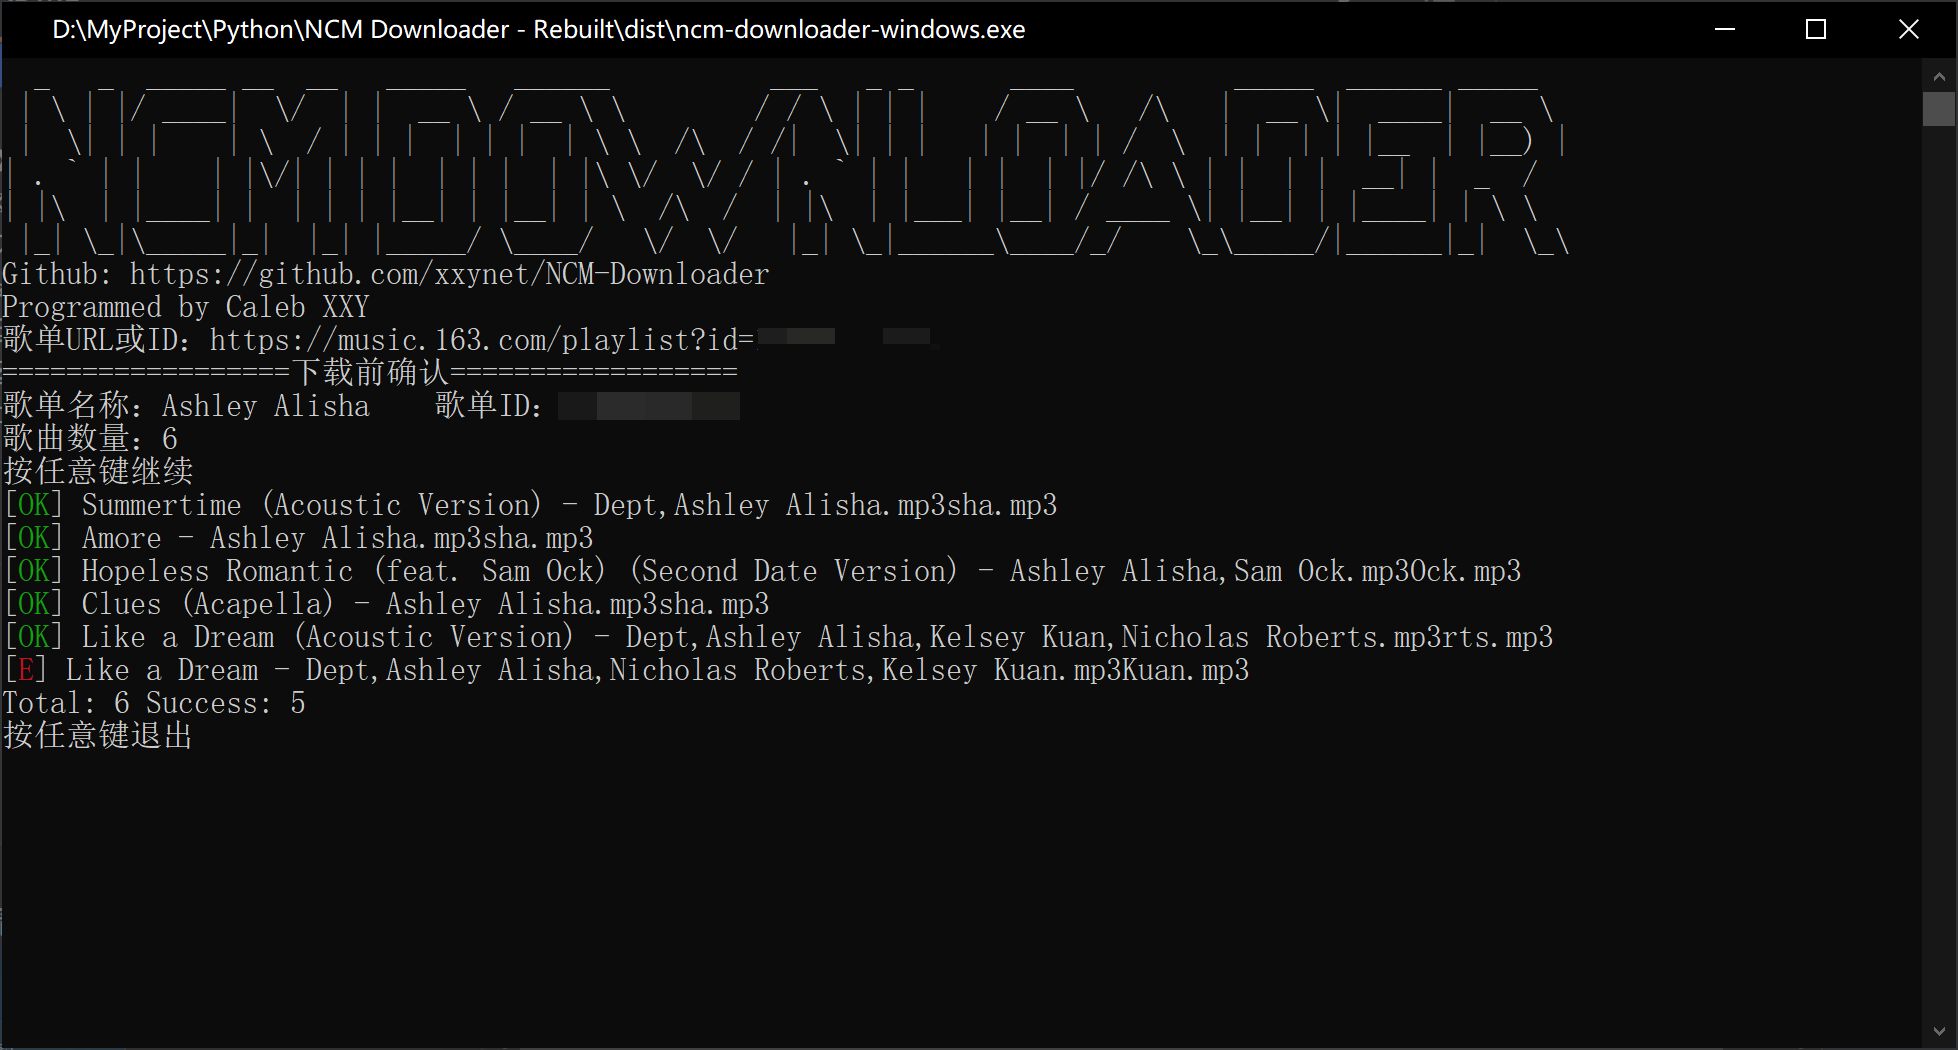
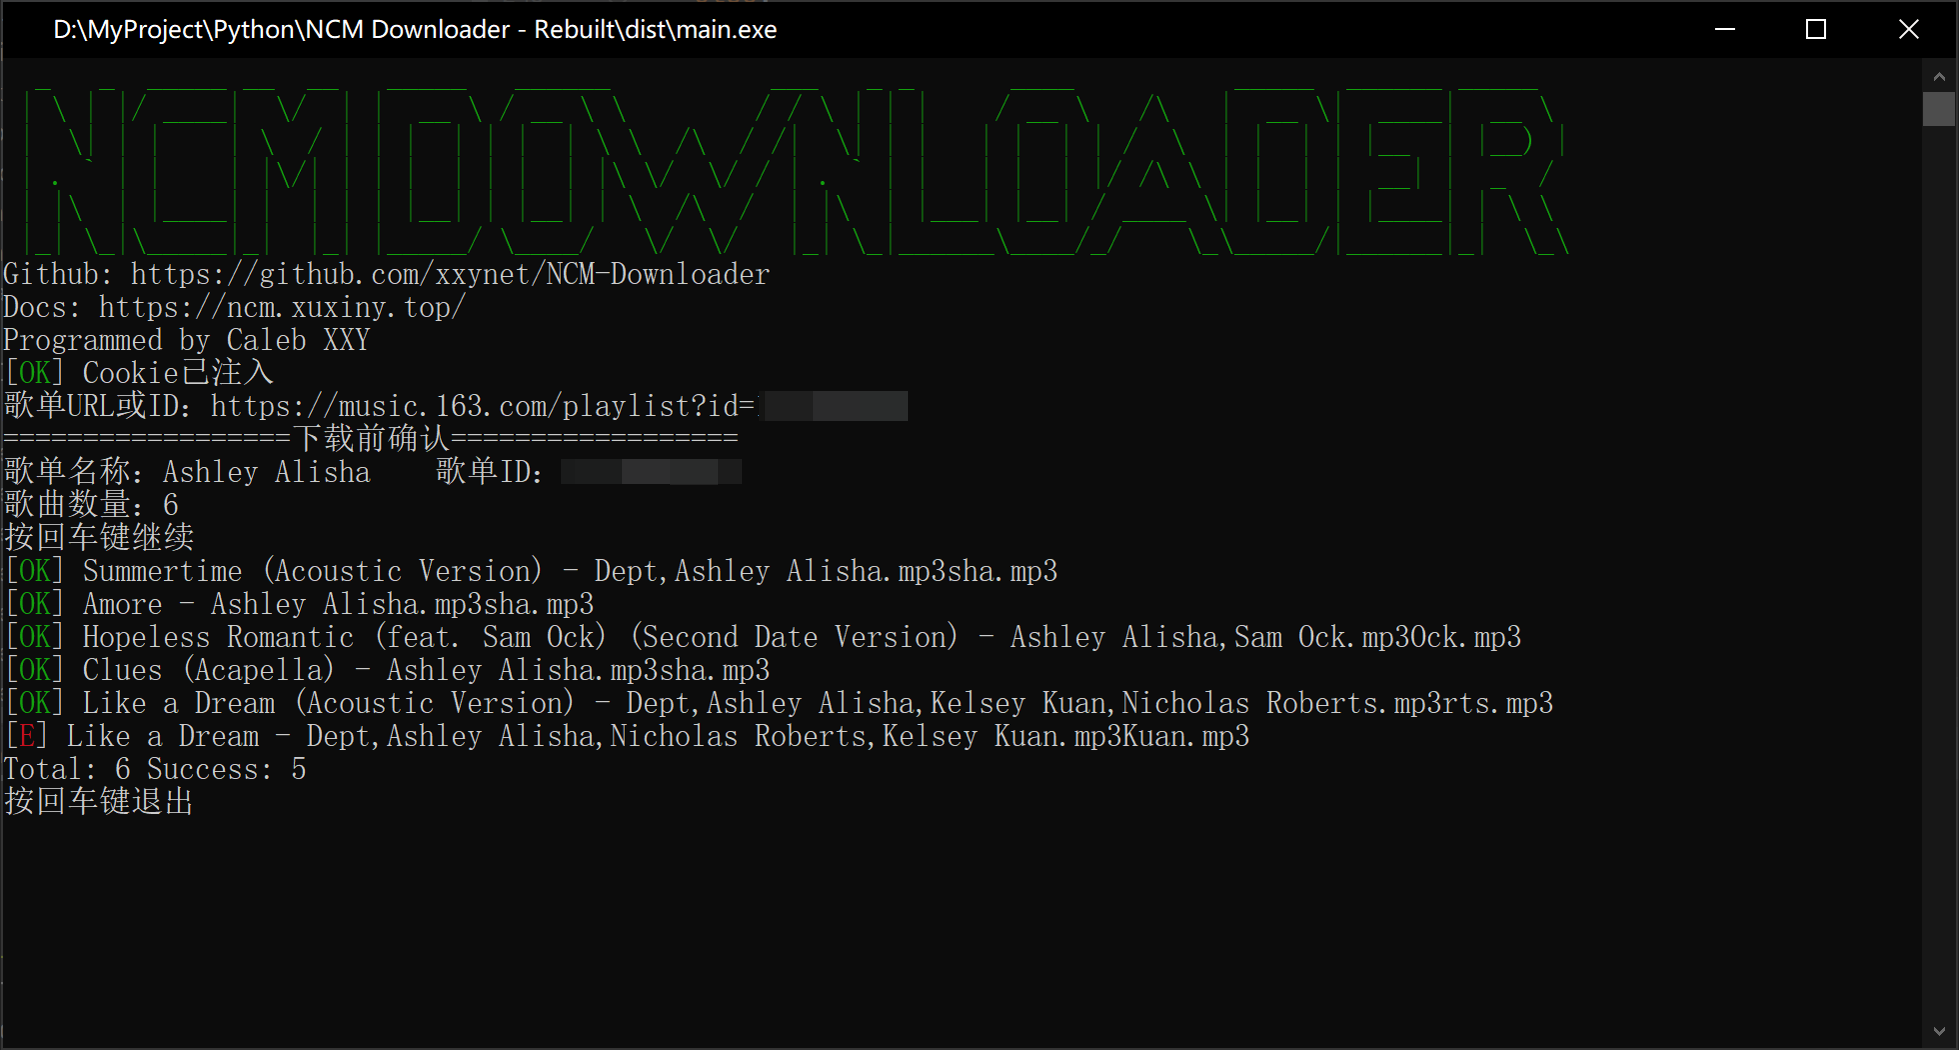
Add files via upload

diff --git a/main.py b/main.py
@@ -28,13 +28,14 @@ lrc = 0
 '''
 
 init() # colorma
-print("  _   _  _____ __  __   _____   ______          ___   _ _      ____          _____  ______ _____  ")
+print(Fore.GREEN + "  _   _  _____ __  __   _____   ______          ___   _ _      ____          _____  ______ _____  ")
 print(" | \ | |/ ____|  \/  | |  __ \ / __ \ \        / / \ | | |    / __ \   /\   |  __ \|  ____|  __ \ ")
 print(" |  \| | |    | \  / | | |  | | |  | \ \  /\  / /|  \| | |   | |  | | /  \  | |  | | |__  | |__) |")
-print("| . ` | |    | |\/| | | |  | | |  | |\ \/  \/ / | . ` | |   | |  | |/ /\ \ | |  | |  __| |  _  / ")
-print("| |\  | |____| |  | | | |__| | |__| | \  /\  /  | |\  | |___| |__| / ____ \| |__| | |____| | \ \ ")
-print(" |_| \_|\_____|_|  |_| |_____/ \____/   \/  \/   |_| \_|______\____/_/    \_\_____/|______|_|  \_\\")
+print(" | . ` | |    | |\/| | | |  | | |  | |\ \/  \/ / | . ` | |   | |  | |/ /\ \ | |  | |  __| |  _  / ")
+print(" | |\  | |____| |  | | | |__| | |__| | \  /\  /  | |\  | |___| |__| / ____ \| |__| | |____| | \ \ ")
+print(" |_| \_|\_____|_|  |_| |_____/ \____/   \/  \/   |_| \_|______\____/_/    \_\_____/|______|_|  \_\\" + Style.RESET_ALL)
 print("Github: https://github.com/xxynet/NCM-Downloader")
+print("Docs: https://ncm.xuxiny.top/")
 print("Programmed by Caleb XXY")
 
 
@@ -46,6 +47,30 @@ if not os.path.exists('cookie.txt'):
     with open("cookie.txt", "w", encoding="utf-8") as cookie_value:
         cookie_value.write("")
     print("首次运行，已自动创建cookie.txt文件")
+
+def formatted_print(type, text):
+    if type == 'e':
+        print("[" + Fore.RED + "E" + Style.RESET_ALL + "] " + text)
+    elif type == 'ok':
+        print("[" + Fore.GREEN + "OK" + Style.RESET_ALL + "] " + text)
+    elif type == 'i':
+        print("[" + Fore.CYAN + "INFO" + Style.RESET_ALL + "] " + text)
+    elif type == 'w':
+        print("[" + Fore.YELLOW + "WARN" + Style.RESET_ALL + "] " + text)
+
+def is_cookie_format_valid(cookie_str: str) -> bool:
+    if not cookie_str:
+        return False
+
+    parts = cookie_str.split(';')
+    for part in parts:
+        if '=' not in part:
+            return False
+        key, _ = part.strip().split('=', 1)
+        if not key.strip():
+            return False
+    return True
+
 
 try:
     config = configparser.RawConfigParser()
@@ -59,6 +84,16 @@ try:
 
     with open("cookie.txt", "r") as cookie_file:
         cookie = cookie_file.read()
+
+    if cookie:
+        if is_cookie_format_valid(cookie):
+            formatted_print('ok', "Cookie已注入")
+        else:
+            formatted_print('e', "不合法的Cookie")
+            time.sleep(3)
+            sys.exit(1)
+    else:
+        formatted_print('w', "未注入Cookie")
 
 except Exception as e:
     print(e)
@@ -112,19 +147,25 @@ class Song:
     def MusicDown(self, playlist, id, name, artists):
         global success_num
         print("Downloading " + name + " - " + artists + ".mp3", end='\r')
-        audio_data = requests.get('https://music.163.com/song/media/outer/url?id=' + str(id), headers=self.headers)
-        content_type = audio_data.headers.get('Content-Type')
+        try:
+            audio_data = requests.get('https://music.163.com/song/media/outer/url?id=' + str(id), headers=self.headers)
+            content_type = audio_data.headers.get('Content-Type')
 
-        olyric = self.olrc
-        tlyric = self.tlrc
+            olyric = self.olrc
+            tlyric = self.tlrc
 
-        if "text/html" not in content_type:
-            with open(path + "/" + playlist.playlist_name + "/" + name + " - " + artists + ".mp3", "wb") as file:
-                file.write(audio_data.content)
-            success_num += 1
-            print("[" + Fore.GREEN + "OK" + Style.RESET_ALL + "] " + name + " - " + artists + ".mp3")
-        else:  # VIP
-            print("[" + Fore.RED + "E" + Style.RESET_ALL + "] " + name + " - " + artists + ".mp3")
+            if "text/html" not in content_type:
+                with open(path + "/" + playlist.playlist_name + "/" + name + " - " + artists + ".mp3", "wb") as file:
+                    file.write(audio_data.content)
+                success_num += 1
+                # print
+                formatted_print('ok', name + " - " + artists + ".mp3")
+            else:  # VIP
+                # print
+                formatted_print('e', name + " - " + artists + ".mp3")
+        except Exception as e:
+            # print
+            formatted_print('e', e)
         if bool_lrc == '1':
             merged_lrc = metadata.merge_lrc(olyric, tlyric)
             with open(path + "/" + playlist.playlist_name + "/" + name + " - " + artists + ".lrc", "w",
@@ -178,7 +219,7 @@ class Playlist:
             print("==================下载前确认==================")
             print(f"歌单名称：{self.playlist_name}    歌单ID：{self.playlist_id}")
             print(f"歌曲数量：{self.playlist_song_amount}")
-            input("按任意键继续")
+            input("按回车键继续")
         else:
             print("请求失败！")
             sys.exit(1)
@@ -203,7 +244,7 @@ def download(id):
             song.Download(downloader)
 
         print(f"Total: {downloader.playlist_song_amount} Success: {success_num}")
-        input("按任意键退出")
+        input("按回车键退出")
     else:
         print("获取失败，请重新运行本程序")
         time.sleep(3)
